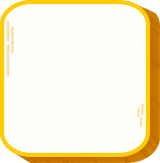
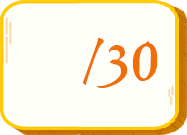
change rahapara scoreboard

diff --git a/scenarios/rahapara/bowling.py b/scenarios/rahapara/bowling.py
@@ -183,7 +183,7 @@ class Bowling:
             self.screen.blit(self.prev.base, (25, 780))
             self.screen.blit(self.next.base, (918, 780))
         elif number == 9:
-            self.screen.blit(self.scoreboard, (1007, 704)) #37x33
+            self.screen.blit(self.scoreboard, (980, 704)) #37x33
             text = self.font.render(str(self.bowl.score),
                                     True,
                                     (240, 211, 8),
@@ -194,14 +194,14 @@ class Bowling:
             self.bowl.update()
             self.bowl.collision_food()
             if self.bowl.score > 9 and self.bowl.score < 16:
-                self.screen.blit(text, (1035, 725))
+                self.screen.blit(text, (988, 715))
             elif self.bowl.score >= 30:
                 self.bowl.score = 0
                 self.current_slide = 10
                 self.screen.blit(self.congrats["bg"], (0, 0))
             else:
-                self.screen.blit(text, (1060, 725))
+                self.screen.blit(text, (1010, 715))
         elif number == 10:
             self.screen.blit(self.congrats["bg"], (0, 0))
-            self.screen.blit(self.congrats["prev"].base, (100, 798))
+            self.screen.blit(self.congrats["prev"].base, (100, 780))
             self.screen.blit(self.next.base, (918, 780))
